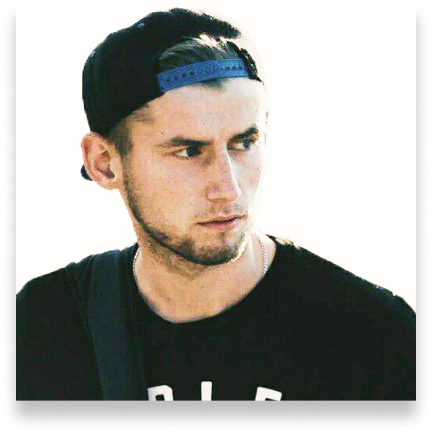
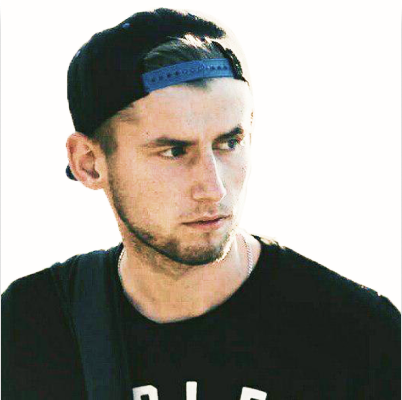
Added styles for section team

diff --git a/css/style.css b/css/style.css
@@ -153,4 +153,54 @@ img {
   margin-bottom: 64px;
   text-align: center;
 }
+
+.team__container {
+  padding: 100px 0 40px 0;
+}
+
+.team-card {
+  margin-bottom: 60px;
+  -webkit-box-align: center;
+      -ms-flex-align: center;
+          align-items: center;
+}
+
+.team-card__pic {
+  width: 100px;
+  height: 100px;
+  -o-object-position: center;
+     object-position: center;
+  -o-object-fit: cover;
+     object-fit: cover;
+  border-radius: 50%;
+  overflow: hidden;
+  -webkit-box-shadow: 0px 4px 4px rgba(0, 0, 0, 0.25);
+          box-shadow: 0px 4px 4px rgba(0, 0, 0, 0.25);
+}
+
+.team-card__img {
+  -o-object-position: center;
+     object-position: center;
+  -o-object-fit: cover;
+     object-fit: cover;
+  border-radius: 50%;
+}
+
+.team-card__inner {
+  margin-left: 35px;
+}
+
+.team-card__title {
+  font-size: 28px;
+  line-height: 33px;
+  color: #202020;
+  margin-bottom: 10px;
+}
+
+.team-card__text {
+  font-size: 14px;
+  line-height: 16px;
+  /* identical to box height */
+  color: #B2B2B2;
+}
 /*# sourceMappingURL=style.css.map */

diff --git a/css/style.scss b/css/style.scss
@@ -173,3 +173,52 @@ img {
     text-align: center;
 
 }
+
+.team {
+    &__container {
+        padding: 100px 0 40px 0;
+    }
+}
+
+.team-card {
+    margin-bottom: 60px;
+    align-items: center;
+
+
+    &__pic {
+        width: 100px;
+        height: 100px;
+        object-position: center;
+        object-fit: cover;
+        border-radius: 50%;
+        overflow: hidden;
+        box-shadow: 0px 4px 4px rgba(0, 0, 0, 0.25);
+    }
+
+    &__img {
+        object-position: center;
+        object-fit: cover;
+        border-radius: 50%;
+    }
+
+    &__inner {
+        margin-left: 35px;
+    }
+
+    &__title {
+        font-size: 28px;
+        line-height: 33px;
+
+        color: $default-text-color;
+        margin-bottom: 10px;
+    }
+
+    &__text {
+        font-size: 14px;
+        line-height: 16px;
+        /* identical to box height */
+
+
+        color: #B2B2B2;
+    }
+}
